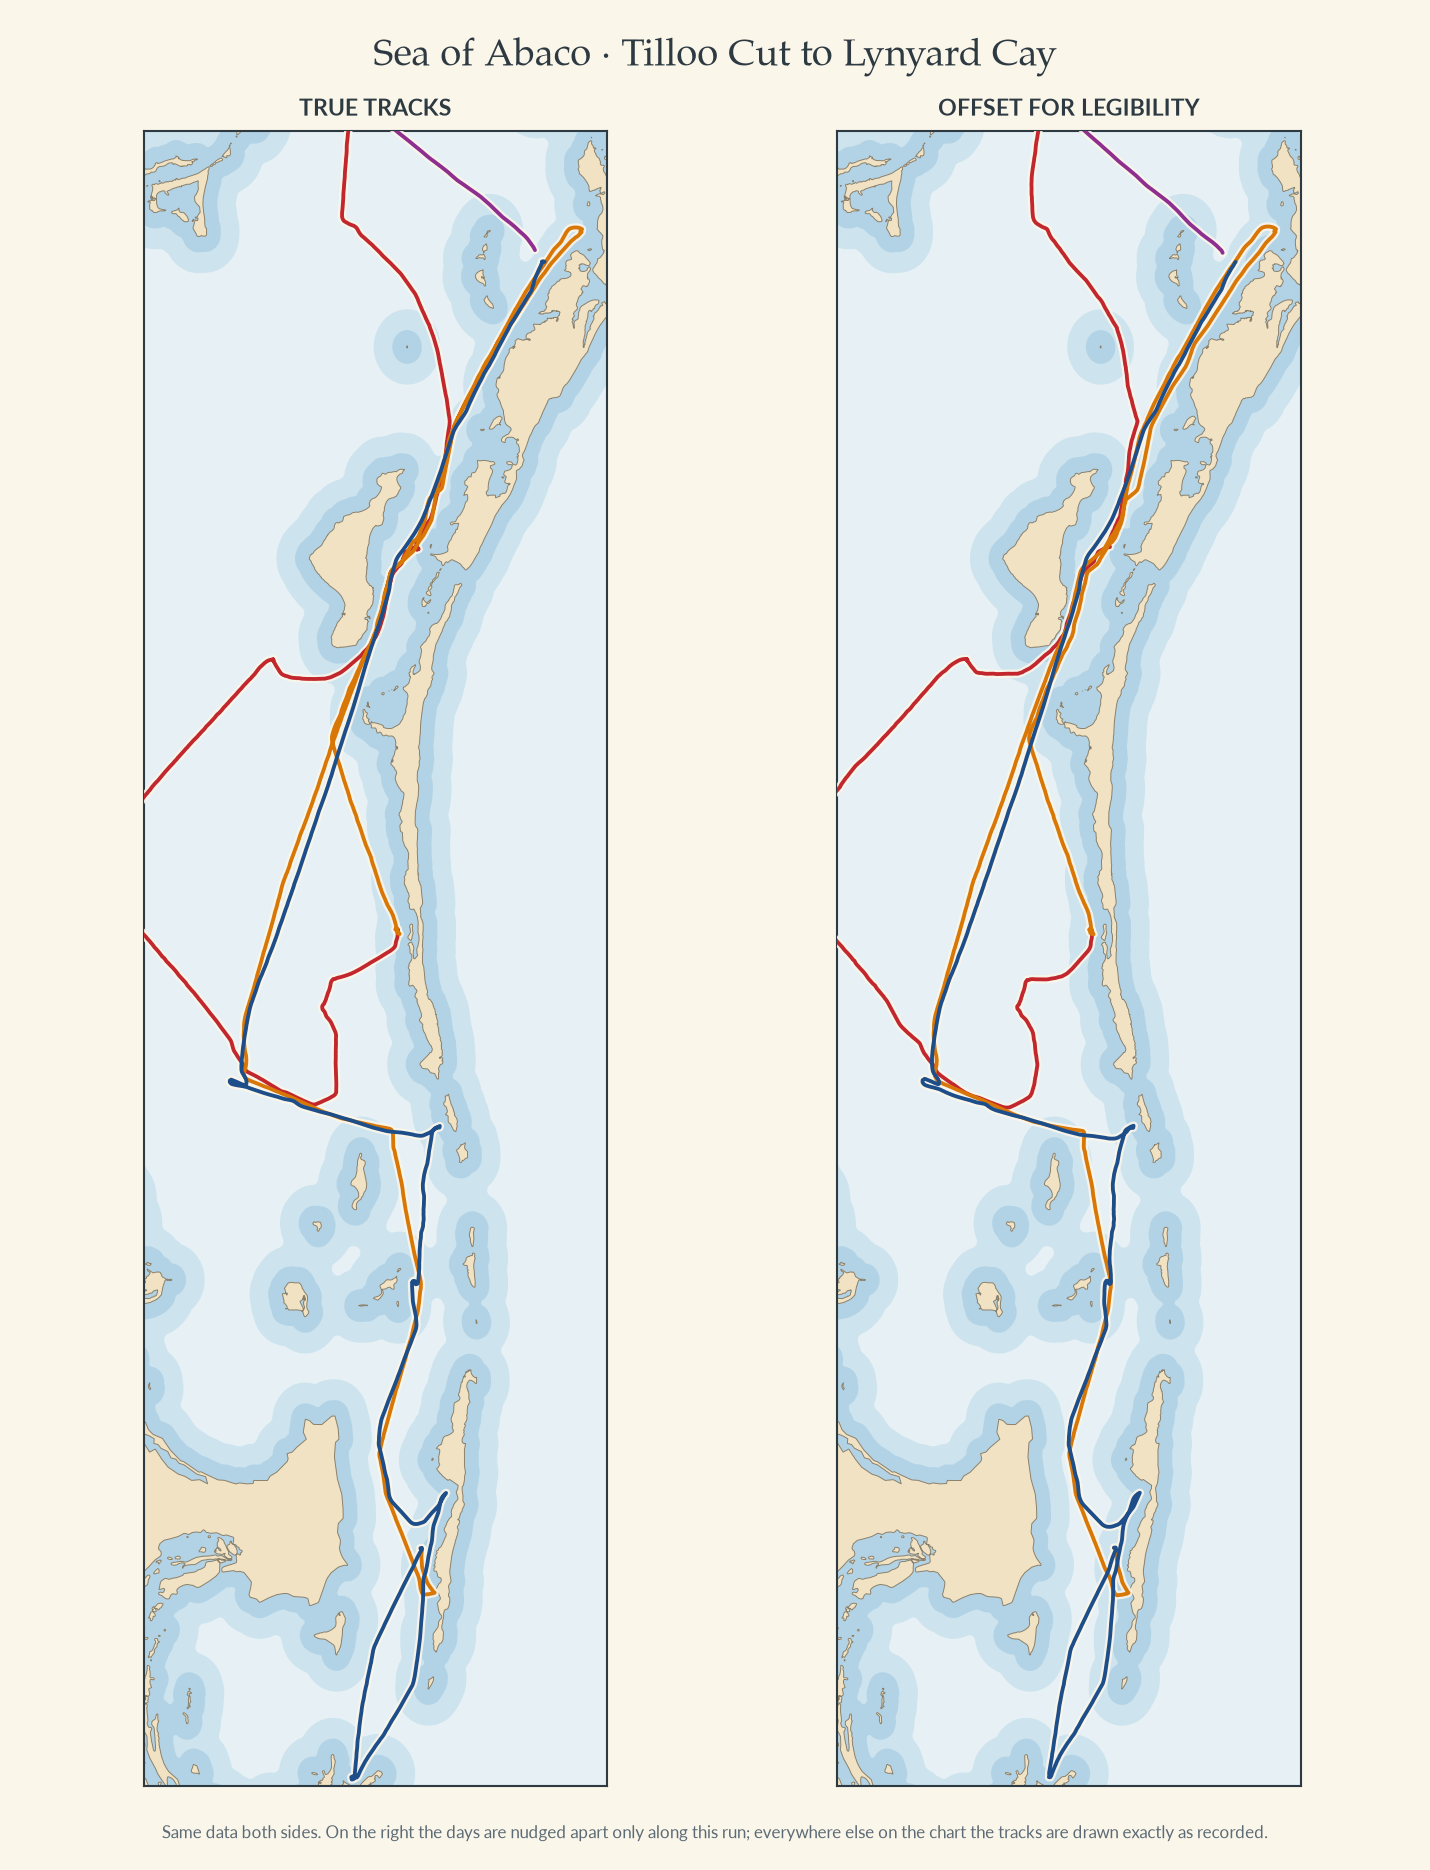
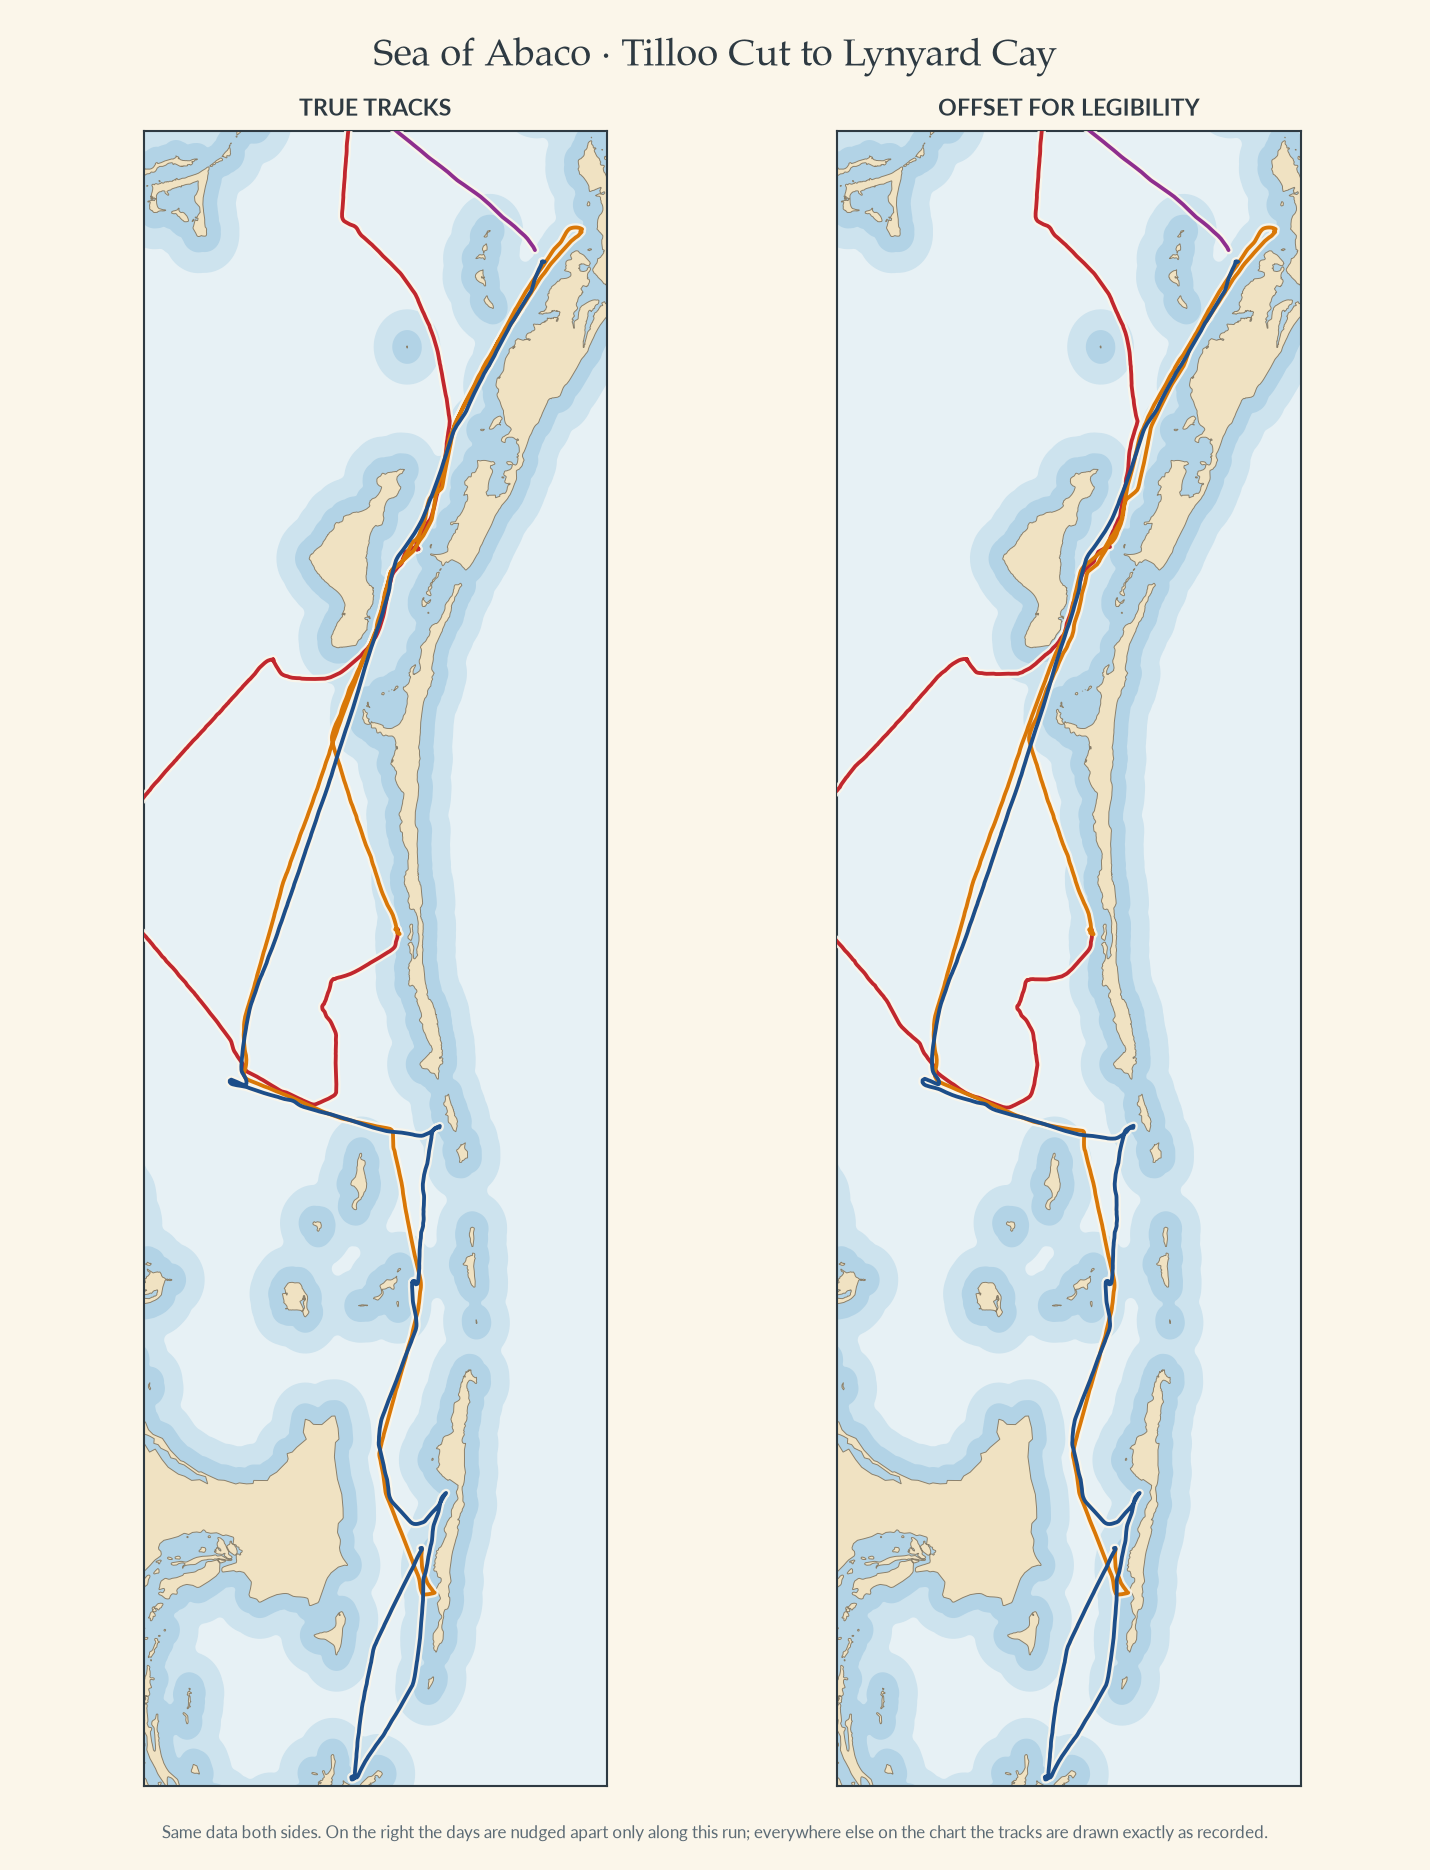
Narrow the offset corridor to Tilloo Cut - Hope Town
The band reached Little Harbour at the bottom and Hope Town at the top, which
is far more of the chart than needs help. Measured where the days actually
braid -- counting day-pairs within 250 m per 0.005 degree band -- and found
three-way congestion only at 26.42-26.435 and 26.485-26.525, with just one day
present at all south of 26.355.

Corridor tightened to 26.420-26.520 with a 0.012 degree fade. Pixel diff of the
two proofs now shows changes confined to 26.401-26.532 N; Little Harbour,
Lynyard Cay and Hope Town are all drawn exactly as recorded.

diff --git a/poster.py b/poster.py
@@ -193,7 +193,11 @@ def load_day(stem, min_step_m=22.0, max_kn=30.0, walk_split=None, road_split=Non
 # The offset applies only along the Tilloo/Elbow run, where four days share one
 # channel. Everywhere else the tracks are drawn exactly as recorded; the shift
 # ramps in and out over FADE so there is no kink at the boundary.
-CORRIDOR_S, CORRIDOR_N, CORRIDOR_FADE = 26.340, 26.545, 0.022
+# Bounds measured, not guessed: three days run within 250 m of each other from
+# about 26.42 to 26.52. South of 26.355 only one day is present at all, and
+# north of here the fan-out to Marsh Harbour separates them on its own — so the
+# run stops short of both Little Harbour and Hope Town.
+CORRIDOR_S, CORRIDOR_N, CORRIDOR_FADE = 26.420, 26.520, 0.012
 
 
 def _corridor_gate(lat):

diff --git a/README.md b/README.md
@@ -89,14 +89,24 @@ The poster is drawn to read like a paper chart rather than a data plot:
   `poster.py`; `pygeomag` is only needed to re-derive it, not to build. The
   figure isn't printed on the rose — the inner ring's rotation *is* the
   variation — so if you need the number, it's here.
-- **Offset tracks — the one deliberate inaccuracy, and it is confined.** Four
-  days share the narrow run between Tilloo and Elbow Cay, where they'd
-  otherwise overplot into a single stripe. Only along that run is each day
-  shifted sideways (up to ~170 m, perpendicular to its own heading); the shift
-  ramps to nothing over 0.022° at either end, so **everywhere else on the
-  chart the tracks are drawn exactly as recorded** — measured at 0.00 m
-  displacement outside the corridor. See `CORRIDOR_S` / `CORRIDOR_N` in
-  `poster.py`. The seven day panels are true throughout.
+- **Offset tracks — the one deliberate inaccuracy, and it is confined.**
+  Between Tilloo Cut and Hope Town several days share one channel and would
+  otherwise overplot into a single stripe. Only along that run
+  (**26.420–26.520 N**, ramping to nothing over 0.012° at each end) is a day
+  shifted sideways, by up to ~170 m perpendicular to its own heading.
+  Everywhere else — Little Harbour, Lynyard Cay, Hope Town, Man-O-War, Great
+  Guana — **the tracks are drawn exactly as recorded**. The seven day panels
+  are true throughout.
+
+  The bounds were measured rather than guessed: counting day-pairs that come
+  within 250 m per 0.005° band shows three-way congestion at 26.42–26.435 and
+  26.485–26.525, while south of 26.355 only a single day is present at all.
+
+  Verify it with a pixel diff of `--compare`'s two proofs; changes should fall
+  inside the band and nowhere else. That check is what caught the trim pass
+  still snipping loops out of true geometry outside the corridor — a defect a
+  displacement metric misses entirely, because a trimmed corner still lies on
+  the original line.
   `python poster.py --compare` renders both versions side by side plus
   `out/compare_offset.png`, so the distortion can be judged directly.
 
